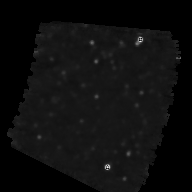
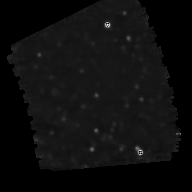
flipped image to align with coordinates

diff --git a/images/make_data.py b/images/make_data.py
@@ -1,4 +1,5 @@
 import glob
+from os import path
 import json
 import numpy as np
 from astropy.io import fits
@@ -6,7 +7,7 @@ import Image
 
 
 def make_images():
-    for f in glob.glob("*.fits.gz"):
+    for f in glob.glob(path.join('..', 'test', 'data', "*.fits.gz")):
         
         data = fits.getdata(f)
         
@@ -16,13 +17,14 @@ def make_images():
         
         data = (data - minimum) / extent
         data = (255.0 * data).astype('uint8')
+        data = np.flipud(data)
         
         im = Image.fromarray(data)
         im.save(f.replace('fits.gz', 'png'))
 
 def make_headers():
     headers = {}
-    for f in glob.glob("*.fits.gz"):
+    for f in glob.glob(path.join('..', 'test', 'data', "*.fits.gz")):
         header = fits.getheader(f)
         
         del header["HISTORY"]
@@ -33,4 +35,4 @@ def make_headers():
 
 
 if __name__ == '__main__':
-    make_headers()
+    make_images()
